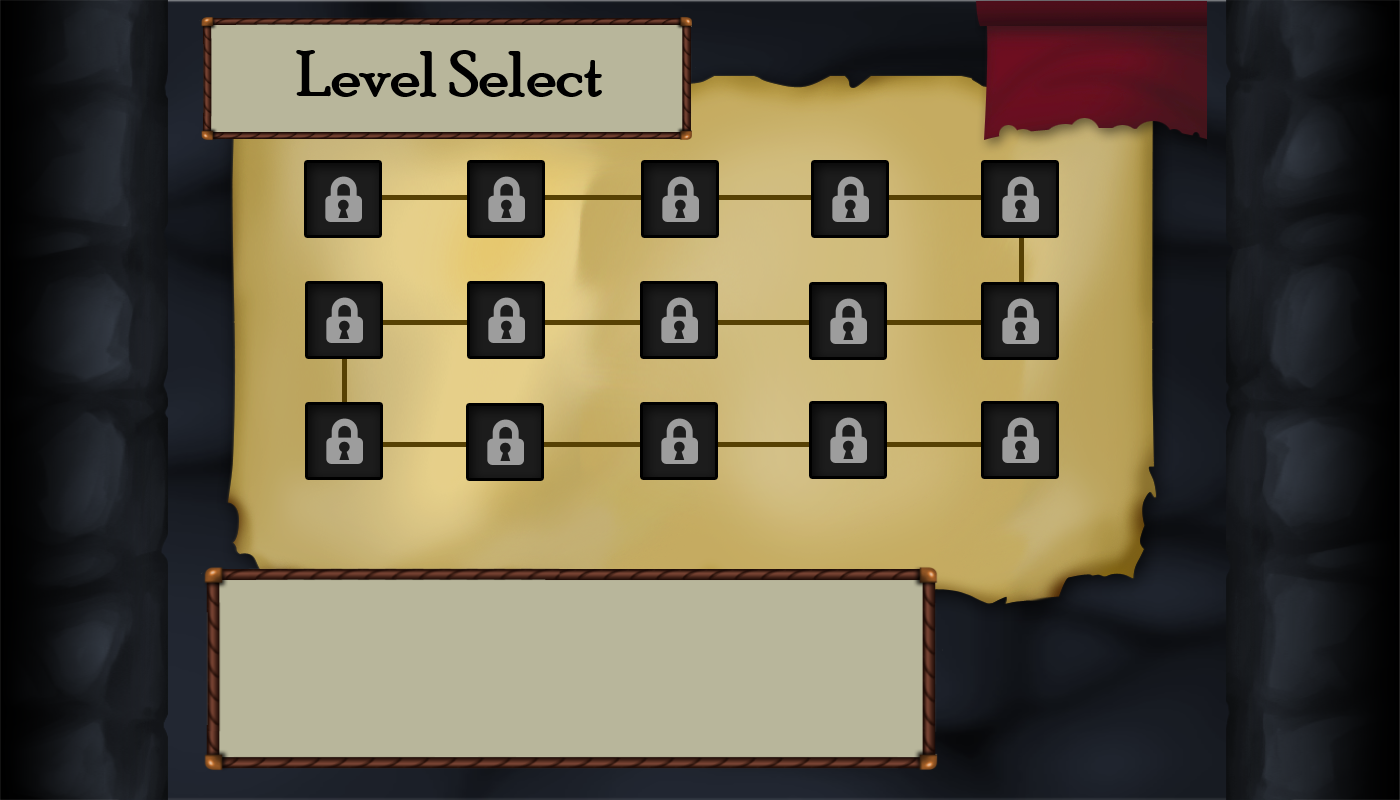
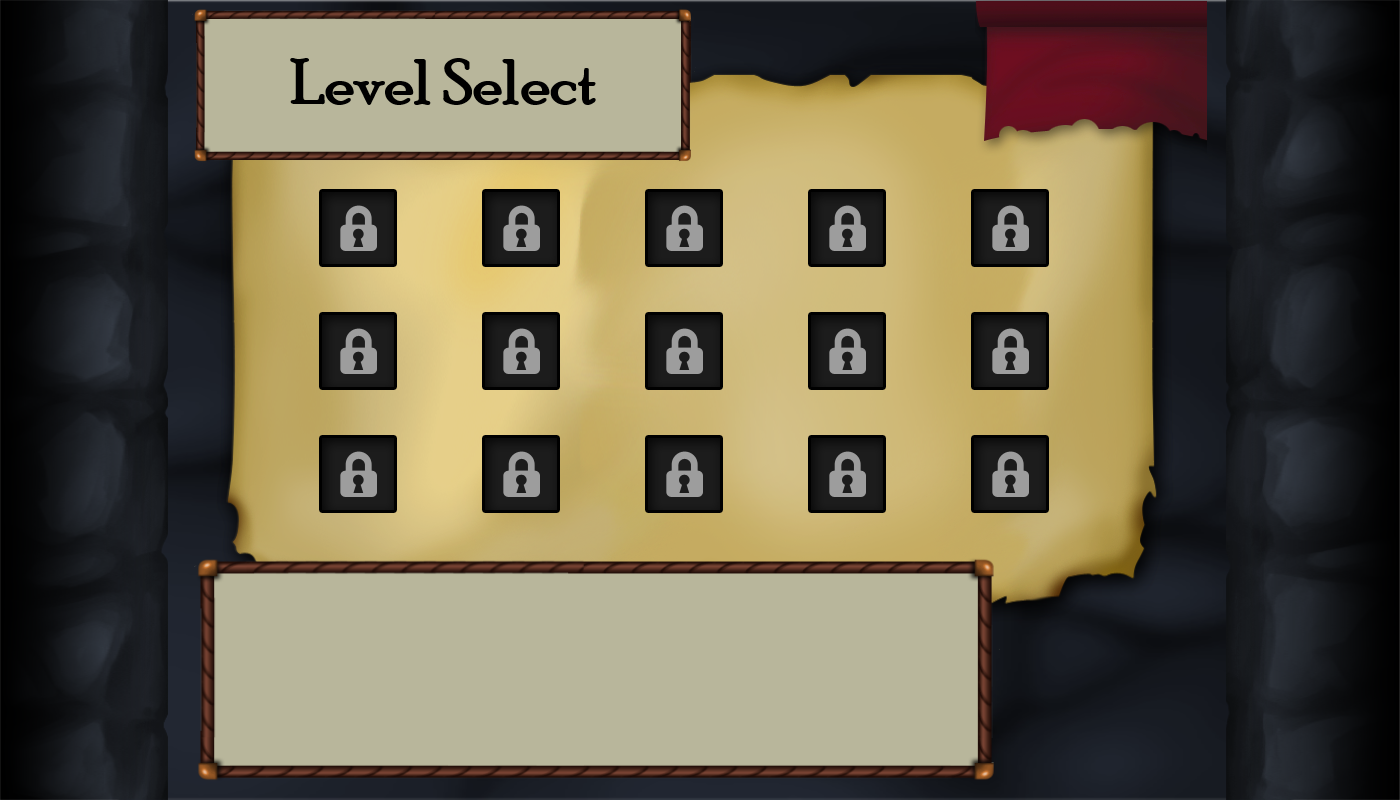
added spin to proj

Changed region(s): [[0.1229, 0.0, 0.7679, 0.6562], [0.1229, 0.6875, 0.7064, 1.0]]

diff --git a/include/macros.h b/include/macros.h
@@ -8,8 +8,8 @@ class Stat;
 const std::string LevelsFileName = "Levels.txt";
 const sf::Vector2f healthOffset(30, 100);
 const sf::Vector2f selectedOffset(45, 30);
-const sf::Vector2f lsLevelsOffset(162, 120);
-const sf::Vector2f lsLevelsStartPos(304, 159);
+const sf::Vector2f lsLevelsOffset(163, 123);
+const sf::Vector2f lsLevelsStartPos(318, 188);
 const sf::Vector2f lvlSelOffset(-8, -8);
 const sf::Vector2f startButtonPos(1050, 600);
 const sf::Vector2f returnButtonPos(1020, 30);
@@ -20,7 +20,8 @@ const sf::Vector2f restartButtonPos(615, 500);
 const sf::Vector2f exitButtonPos(615, 550);
 const sf::Vector2f pauseButtonPos(1200, 200);
 
-
+constexpr auto PI = 3.14159265358979323846;
+constexpr auto DEG90 = 90;
 const sf::Vector2f DEFAULT_VEC(0, 0);
 constexpr auto SPRITE_SIZE = 64;
 constexpr auto LEVELS_CHART_COLS = 5;
@@ -129,7 +130,7 @@ const std::vector<std::vector<float>> charactersStats =
 {
 	/* cleric */ { 70.f, 2.f, 6.f, 800.f , 10.f},
 	/* knight */ { 120.f, 3.f, 15.f, 40.f , 20.f},
-	/* archer */ { 90.f, 2.f, 20.f, 600.f , 13.f},
+	/* archer */ { 90.f, 2.f, 300.f, 600.f , 13.f},
 	/* dummy  */ { 80.f, 4.f, 10.f, 40.f , 15.f}
 };
 

diff --git a/include/Object.h b/include/Object.h
@@ -43,6 +43,7 @@ public:
 	void setPosition(sf::Vector2f pos) { this->m_sprite.setPosition(pos); }
 	void setAsTarget(std::shared_ptr<Character> obj) { this->m_target = obj; }
 	void setAnimation(int index) { this->m_animation.setRow(index); }
+	void setRotation(float angle) { this->m_sprite.setRotation(angle); }
 
 	// Checks/validators
 	bool checkCollision(const sf::Vector2f& location);

diff --git a/src/SkillSrc/Projectile.cpp b/src/SkillSrc/Projectile.cpp
@@ -49,4 +49,8 @@ void Projectile::updateProjectile(sf::Vector2f steerForce,float deltaTime)
 	dir = -dir;
 	auto speed = 1.1f;
 	this->setPosition(this->getPosition()+ speed * dir * deltaTime);
+	
+	auto pos = this->getTarget()->getPosition() - this->getPosition();
+	this->m_orientation = (float)(atan2(pos.x, pos.y) * RAD2DEG);
+	this->setRotation(this->m_orientation);
 }

diff --git a/include/Skills/Projectile.h b/include/Skills/Projectile.h
@@ -1,5 +1,6 @@
 #pragma once
 #include "Object.h"
+#define RAD2DEG (180.0f / (float)PI)
 
 class Character;
 
@@ -12,5 +13,8 @@ public:
 
 	void draw(sf::RenderWindow& window);
 	void updateProjectile(sf::Vector2f steerForce,float deltaTime);
+
+private:
+	float m_orientation;
 };
 

diff --git a/include/Resources.h b/include/Resources.h
@@ -40,7 +40,6 @@ public:
 	void setVolume(int volume);
 	void setPopOutScreen(sf::RectangleShape& rect, sf::Text& text);
 	void initText(sf::Text& text);
-	void setAnimation(float deltaTime, sf::Sprite& player, int dir);
 
 private:
 	Resources();
